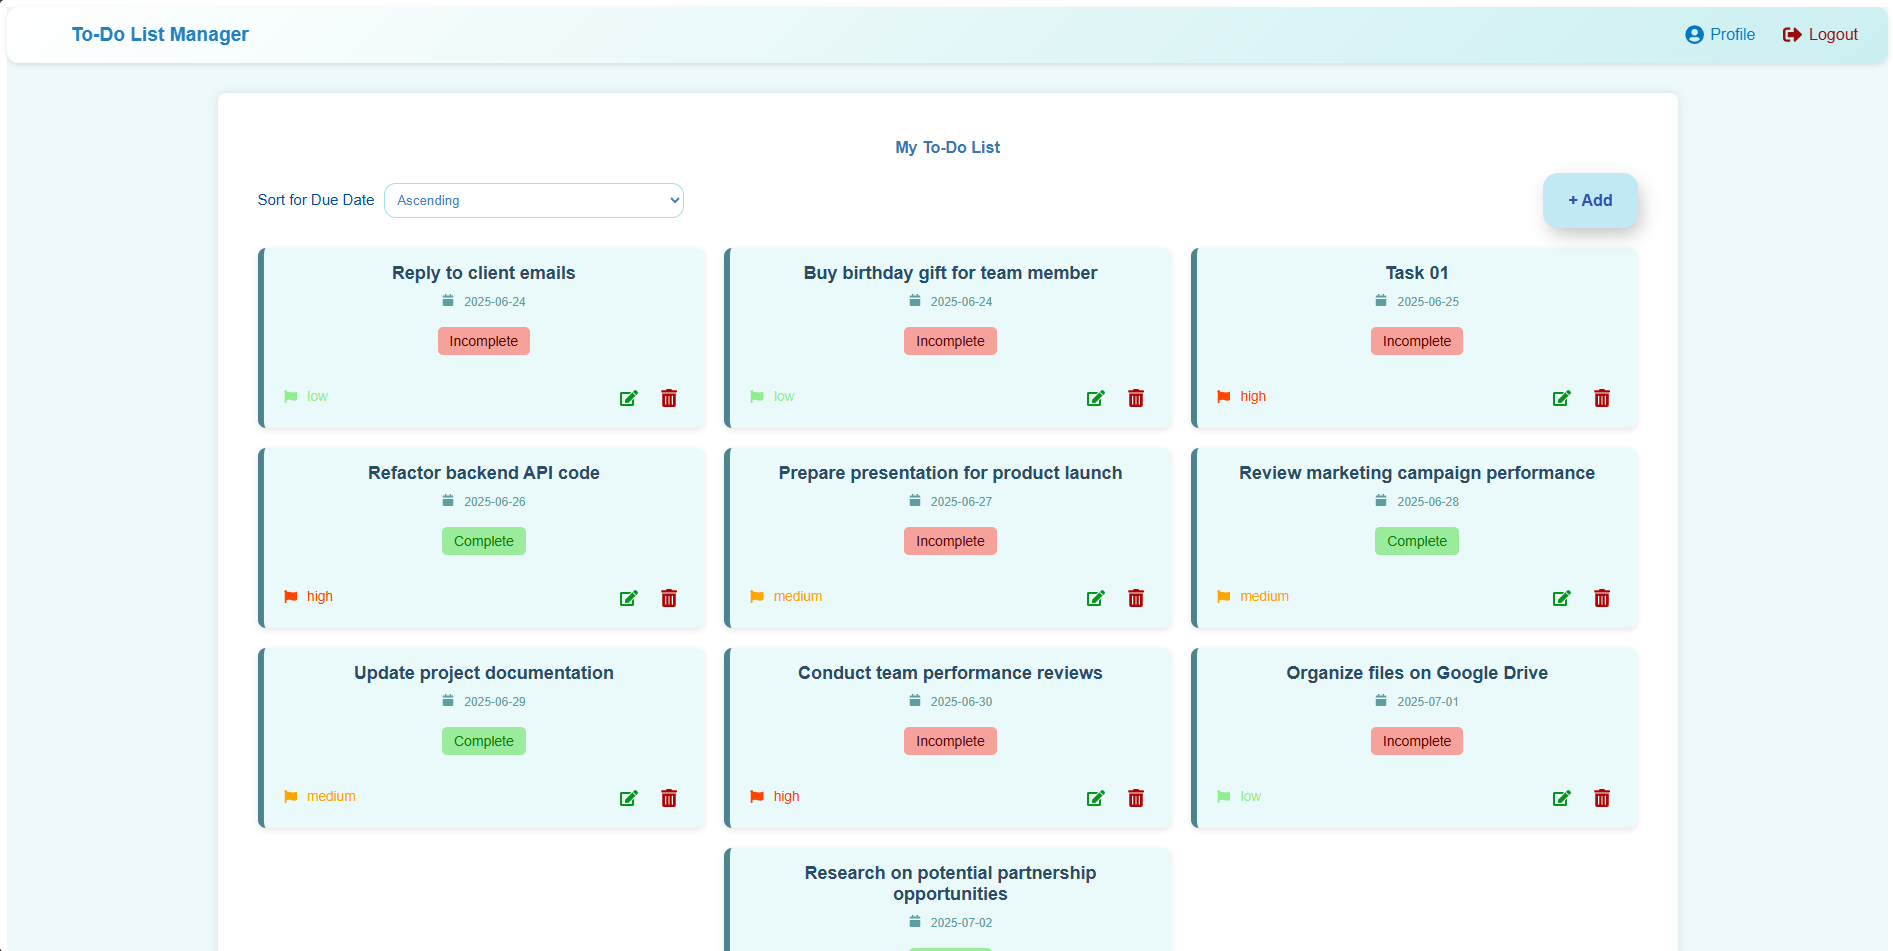
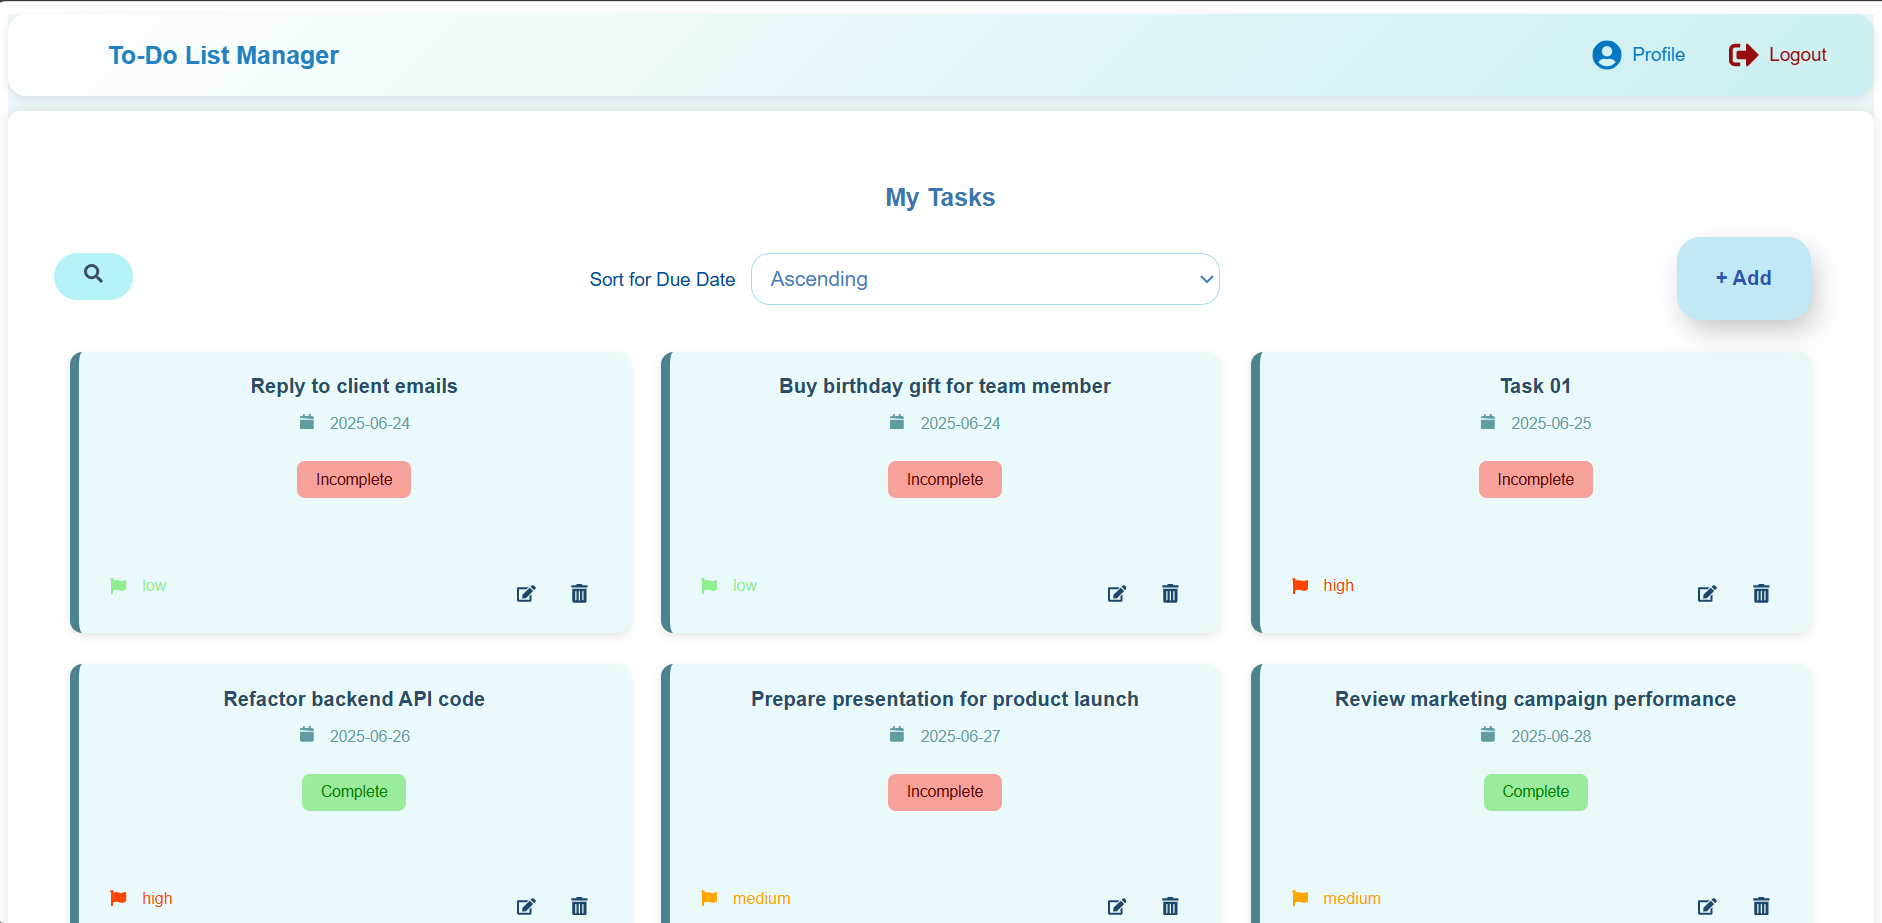
style search

diff --git a/to_do_list/src/components/SearchBar/SearchBar.css b/to_do_list/src/components/SearchBar/SearchBar.css
@@ -1,113 +1,58 @@
-input, .caret {
-	margin: auto;
-	display: block;
-	transition: all 0.25s linear;
+.search-box{
+  width: fit-content;
+  height: fit-content;
+  position: relative;
+  margin-top: 10px;
+}
+.input-search{
+  height: 30px;
+  width: 30px;
+  border-style: none;
+  padding: 10px;
+  font-size: 12px;
+  letter-spacing: 2px;
+  outline: none;
+  border-radius: 50px;
+  transition: all .5s ease-in-out;
+  background-color: #b4f2f8;
+  padding-right: 40px;
+  color:#185d76;
+}
+.input-search::placeholder{
+  color:rgba(255,255,255,.5);
+  font-size: 18px;
+  letter-spacing: 2px;
+  font-weight: 100;
+}
+.btn-search{
+  width: 50px;
+  height: 30px;
+  border-style: none;
+  font-size: 12px;
+  font-weight: bold;
+  outline: none;
+  cursor: pointer;
+  border-radius: 50%;
+  position: absolute;
+  right: 0px;
+  color:#404b62 ;
+  background-color:transparent;
+  pointer-events: painted;  
+}
+.btn-search:focus ~ .input-search{
+  width: 300px;
+  border-radius: 0px;
+  background-color: transparent;
+  border-bottom:2px solid rgb(173, 220, 249);
+  transition: all 500ms cubic-bezier(0, 0.110, 0.35, 2);
+  color: #185d76;
+}
+.input-search:focus{
+  width: 300px;
+  border-radius: 0px;
+  background-color: transparent;
+  border-bottom:1px solid rgba(255,255,255,.5);
+  transition: all 500ms cubic-bezier(0, 0.110, 0.35, 2);
+  color: #185d76;
 }
 
-input {
-	background: transparent;
-	border-radius: 50%;
-	box-shadow: 0 0 0 0.25em inset;
-	caret-color: #00f; /* example primary color */
-	width: 2em;
-	height: 2em;
-	-webkit-appearance: none;
-	-moz-appearance: none;
-	appearance: none;
-}
-
-input:focus, input:valid {
-	background: #444; /* example input background */
-	border-radius: 0.25em;
-	box-shadow: none;
-	padding: 0.75em 1em;
-	transition-duration: 0.125s;
-	transition-delay: 0.125s;
-	width: 100%;
-	height: 3em;
-}
-
-input:focus {
-	animation: showCaret 0.5s steps(1);
-	outline: transparent;
-}
-
-input:focus + .caret, input:valid + .caret {
-	animation: handleToCaret 0.5s linear;
-	background: transparent;
-	width: 1px;
-	height: 1.5em;
-	transform: translate(0, -1em) rotate(-180deg) translate(7.5em, -0.25em);
-}
-
-input::-webkit-search-decoration {
-	-webkit-appearance: none;
-}
-
-label {
-	color: #e3e4e8;
-	overflow: hidden;
-	position: absolute;
-	width: 0;
-	height: 0;
-}
-
-.caret {
-	background: #e3e4e8;
-	border-radius: 0 0 0.125em 0.125em;
-	margin-bottom: -0.6em;
-	width: 0.25em;
-	height: 1em;
-	transform: translate(0, -1em) rotate(-45deg) translate(0, 0.875em);
-	transform-origin: 50% 0;
-}
-
-
-/* Animations */
-@keyframes showCaret {
-	from {
-		caret-color: transparent;
-	}
-	to {
-		caret-color: #00f; /* primary color */
-	}
-}
-
-@keyframes handleToCaret {
-	from {
-		background: #e3e4e8;
-		width: 0.25em;
-		height: 1em;
-		transform: translate(0, -1em) rotate(-45deg) translate(0, 0.875em);
-	}
-	25% {
-		background: #e3e4e8;
-		width: 0.25em;
-		height: 1em;
-		transform: translate(0, -1em) rotate(-180deg) translate(0, 0.875em);
-	}
-	50%, 62.5% {
-		background: #00f;
-		width: 1px;
-		height: 1.5em;
-		transform: translate(0, -1em) rotate(-180deg) translate(7.5em, 2.5em);
-	}
-	75%, 99% {
-		background: #00f;
-		width: 1px;
-		height: 1.5em;
-		transform: translate(0, -1em) rotate(-180deg) translate(7.5em, -0.25em);
-	}
-	87.5% {
-		background: #00f;
-		width: 1px;
-		height: 1.5em;
-		transform: translate(0, -1em) rotate(-180deg) translate(7.5em, 0.125em);
-	}
-	to {
-		background: transparent;
-		width: 1px;
-		height: 1.5em;
-		transform: translate(0, -1em) rotate(-180deg) translate(7.5em, -0.25em);
-	}
-}

diff --git a/to_do_list/src/components/SearchBar/SearchBar.jsx b/to_do_list/src/components/SearchBar/SearchBar.jsx
@@ -1,24 +1,27 @@
 import React from 'react';
 import './SearchBar.css'; 
+import { FaSearch } from 'react-icons/fa';
+
 
 const SearchBar = ({ searchTerm, setSearchTerm }) => {
   return (
     
     
+  <div className="search-box">
+    <button className="btn-search">
+      <FaSearch />
+    </button>
 
-<div>
-	<label>Search</label>
-	<input
+    <input
       type="search"
-      id="search"
+      className="input-search"
       name="search"
       pattern=".*\S.*" required
       value={searchTerm}
-      onChange={(e) => setSearchTerm(e.target.value)}
-    />
-	<span className="caret"></span>
+      onChange={(e) => setSearchTerm(e.target.value)}/>
+  
 
-    {/* <input
+         {/* <input
       type="search"
       className="search-input"
       name="search"
@@ -26,7 +29,14 @@ const SearchBar = ({ searchTerm, setSearchTerm }) => {
       value={searchTerm}
       onChange={(e) => setSearchTerm(e.target.value)}
     /> */}
-</div>
+        </div>
+
+
+
+       
+
+    
+
 
 
    

diff --git a/to_do_list/src/components/TodoList/TodoList.css b/to_do_list/src/components/TodoList/TodoList.css
@@ -111,7 +111,7 @@
 
 .popup-form h3 {
   margin-top: 0;
-  color: #5ba3eb;
+  color: #0b61b7;
 }
 
 .popup-form input,
@@ -119,10 +119,10 @@
   width: 100%;
   margin: 10px 0;
   padding: 8px;
-  font-size: 14px;
+  font-size: 11px;
   border-radius: 12px;
   border-color: #52a4f6;
-  color: #125ea9;
+  color: #166bc1;
  
   
 }
@@ -136,7 +136,7 @@
 
 .popup-buttons button {
   padding: 8px 12px;
-  font-size: 14px;
+  font-size: 10px;
   cursor: pointer;
 background-color: transparent;
    
@@ -197,6 +197,17 @@ background-color: transparent;
     font-size: 14px;
     margin-right: 0px;
   }
+
+
+  .searchbtn {
+    display: none !important;
+   
+  
+}
+
+
+
+
 
 
 }

diff --git a/to_do_list/src/components/TodoList/TodoList.jsx b/to_do_list/src/components/TodoList/TodoList.jsx
@@ -46,8 +46,9 @@ function TodoList() {
       
       <p className="welcome-text">My Tasks</p>
       <form className="todo-form" onSubmit={addTodo}>
-         <SearchBar searchTerm={searchTerm} setSearchTerm={setSearchTerm} />
-        <SortControl sortOrder={sortOrder} setSortOrder={setSortOrder} />
+<SearchBar className="searchbtn" searchTerm={searchTerm} setSearchTerm={setSearchTerm} />
+<SortControl sortOrder={sortOrder} setSortOrder={setSortOrder} />
+
 
         <button
           type="button"
